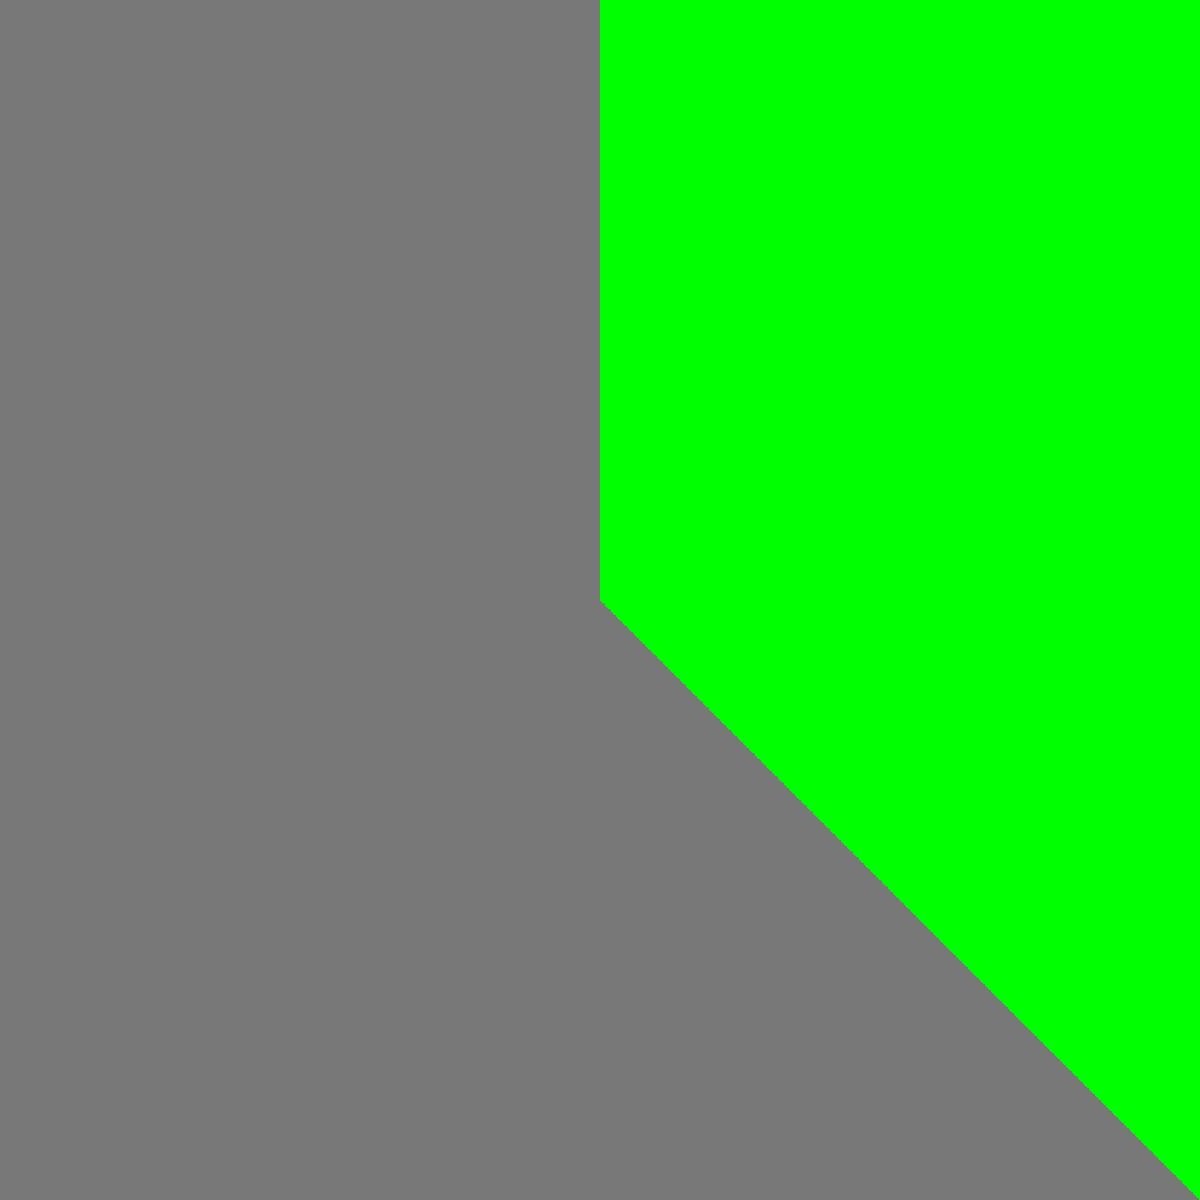
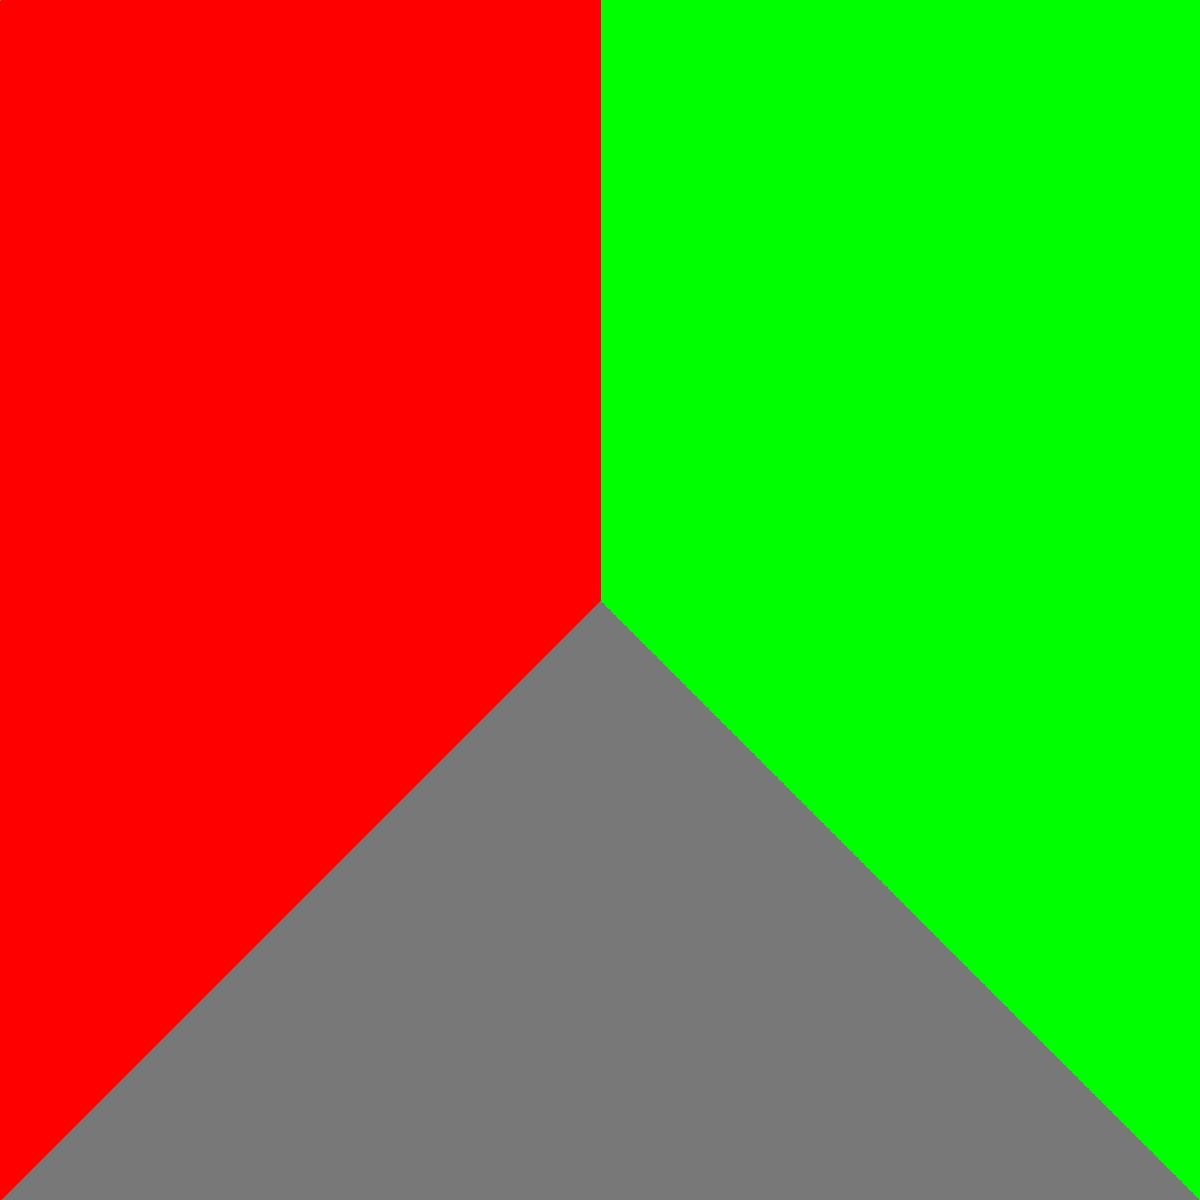
got two triangles successfully rendered

diff --git a/src/main/MainImageGenerator.java b/src/main/MainImageGenerator.java
@@ -1,5 +1,6 @@
 package main;
 
+import sceneObjects.SceneObject;
 import sceneObjects.Triangle;
 import imageRW.ZachImageWriter;
 
@@ -31,13 +32,26 @@ public class MainImageGenerator {
 		
 		System.out.println("Now Computing Image Data");
 		
-		double[] vertexACoords = {0.0,0.0,-10.0};
-		double[] vertexBCoords = {0.0,40.0,-10.0};
-		double[] vertexCCoords = {4,-4,-2};
+		double[] wall1_vertexA = {0.0,0.0,-10.0};
+		double[] wall1_vertexB = {0.0,40.0,-10.0};
+		double[] wall1_vertexC = {4.0,-4.0,-2.0};
+		double[] wall1_rgbVals = {0.0,1.0,0.0};
 		
-		double[] rgbVal = {0.0,1.0,0.0};
+		double[] wall2_vertexA = {0.0,0.0,-10.0};
+		double[] wall2_vertexB = {0.0,40.0,-10.0};
+		double[] wall2_vertexC = {-4.0,-4.0,-2.0};
+		double[] wall2_rgbVals = {1.0,0.0,0.0};
 		
-		Triangle wallOne = new Triangle(vertexACoords,vertexBCoords,vertexCCoords);
+		SceneObject[] objects = new SceneObject[2];
+		
+		objects[0] = new Triangle(wall1_vertexA,wall1_vertexB,wall1_vertexC);
+		objects[0].setRGB(wall1_rgbVals[0], wall1_rgbVals[1], wall1_rgbVals[2]);
+		
+		objects[1] = new Triangle(wall2_vertexA,wall2_vertexB,wall2_vertexC);
+		objects[1].setRGB(wall2_rgbVals[0], wall2_rgbVals[1], wall2_rgbVals[2]);
+		
+		boolean objectFound = false;
+		double[] currentRGB = new double[3];
 		
 		//loops through all the pixels generating them
 		for(int rowNum = 0; rowNum < imageData[0].length; rowNum++){
@@ -53,16 +67,21 @@ public class MainImageGenerator {
 				imagePlaneX = 2*imagePlaneX - 1;
 				imagePlaneY = 2*imagePlaneY - 1;
 				
-				if(wallOne.doesItIntersect(imagePlaneX, imagePlaneY, -1)){
-					imageData[0][rowNum][colNum] = 0;
-					imageData[1][rowNum][colNum] = 255;
-					imageData[2][rowNum][colNum] = 0;
-				}else{
+				objectFound = false;
+				for(SceneObject obj: objects){
+					if(obj.doesItIntersect(imagePlaneX, imagePlaneY, -1)){
+						currentRGB = obj.getRGB();
+						objectFound = true;
+						imageData[0][rowNum][colNum] = (int) (currentRGB[0]*255);
+						imageData[1][rowNum][colNum] = (int) (currentRGB[1]*255);
+						imageData[2][rowNum][colNum] = (int) (currentRGB[2]*255);
+					}
+				}
+				if(!objectFound){
 					imageData[0][rowNum][colNum] = backgroundR;
 					imageData[1][rowNum][colNum] = backgroundG;
 					imageData[2][rowNum][colNum] = backgroundB;
 				}
-				
 				
 				
 			}
@@ -70,6 +89,7 @@ public class MainImageGenerator {
 		
 		
 		System.out.println("Image Data computed. Now writing image");
+		
 		//this writes the image using the image data
 		ZachImageWriter.writeImageUsingImageSize(dummyFileName, renderedImageFileName, imageData);
 		

diff --git a/src/sceneObjects/Triangle.java b/src/sceneObjects/Triangle.java
@@ -1,6 +1,6 @@
 package sceneObjects;
 
-public class Triangle {
+public class Triangle extends SceneObject{
 	
 	private double[] vertexAcoords, vertexBcoords, vertexCcoords;
 	
@@ -15,30 +15,7 @@ public class Triangle {
 	private double nearPlane = 1;
 	private double farPlane = 30;
 	
-	public double getRed() {
-		return red;
-	}
-
-	public void setRed(double red) {
-		this.red = red;
-	}
-
-	public double getGreen() {
-		return green;
-	}
-
-	public void setGreen(double green) {
-		this.green = green;
-	}
-
-	public double getBlue() {
-		return blue;
-	}
-
-	public void setBlue(double blue) {
-		this.blue = blue;
-	}
-
+	
 	public Triangle(double[] vertex1coords, double[] vertex2coords,
 			double[] vertex3coords) {
 		super();

diff --git a/src/sceneObjects/SceneObject.java b/src/sceneObjects/SceneObject.java
@@ -1,0 +1,28 @@
+package sceneObjects;
+
+public abstract class SceneObject {
+
+	protected double red;
+	protected double green;
+	protected double blue;
+	
+	public SceneObject(){
+		red = 0.0;
+		green = 0.0;
+		blue = 0.0;
+	}
+	
+	public void setRGB(double redVal, double greenVal, double blueVal){
+		red = redVal;
+		green = greenVal;
+		blue = blueVal;
+	}
+	
+	public double[] getRGB(){
+		double[] rgbVals = {red,green,blue};
+		return rgbVals;
+	}
+	
+	public abstract boolean doesItIntersect(double rayVectorX, double rayVectorY, double rayVectorZ);
+	
+}

diff --git a/src/sceneObjects/Sphere.java b/src/sceneObjects/Sphere.java
@@ -1,6 +1,6 @@
 package sceneObjects;
 
-public class Sphere {
+public class Sphere extends SceneObject{
 
 	private double centerX;
 	private double centerY;
@@ -28,5 +28,12 @@ public class Sphere {
 
 	public double getRadius() {
 		return radius;
+	}
+
+	@Override
+	public boolean doesItIntersect(double rayVectorX, double rayVectorY,
+			double rayVectorZ) {
+		// TODO Auto-generated method stub
+		return false;
 	}
 }
